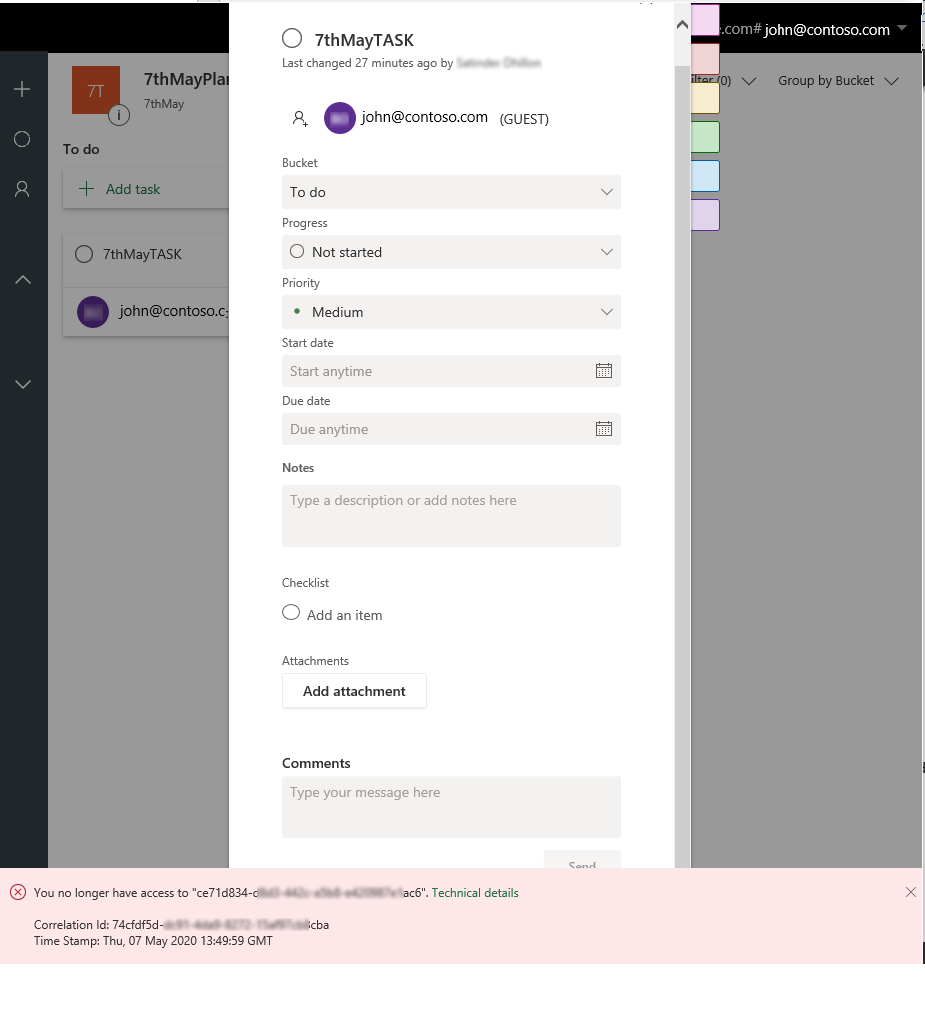
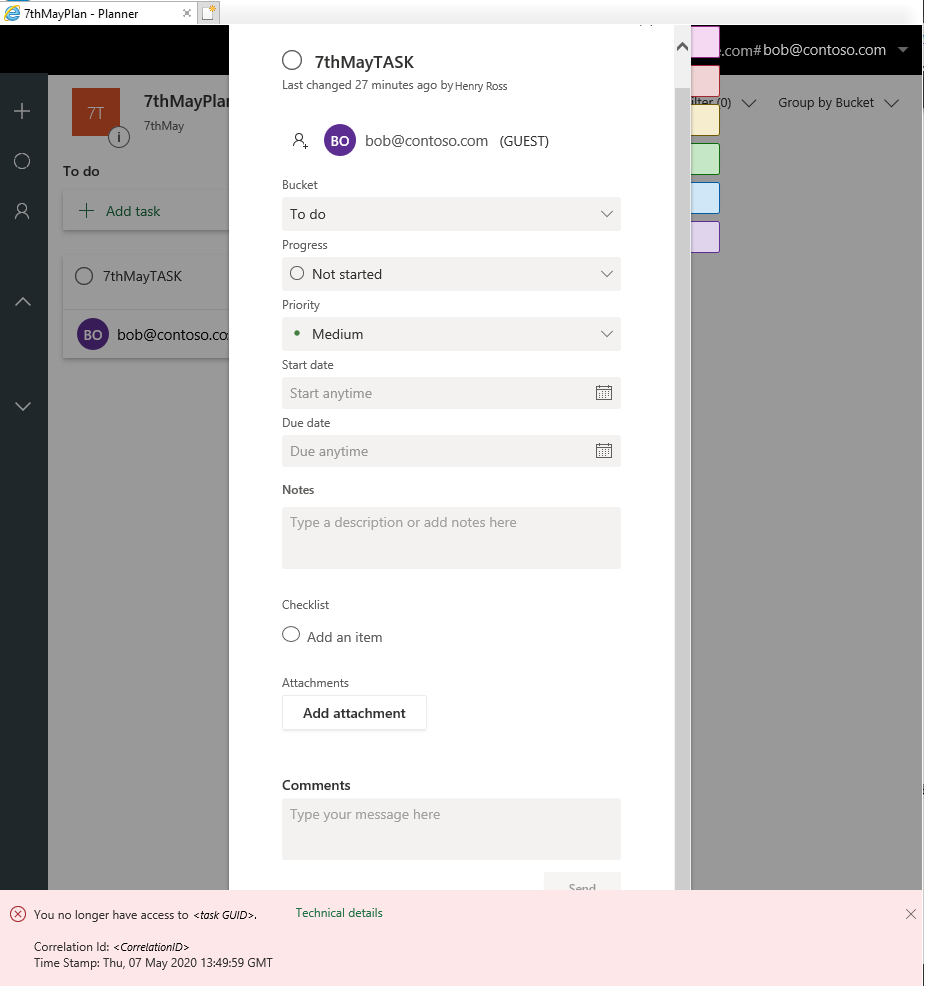
update content and screenshot

diff --git a/Office/Client/planner/guests-cannot-comment-assigned-tasks.md b/Office/Client/planner/guests-cannot-comment-assigned-tasks.md
@@ -10,28 +10,25 @@ ms.prod: office-perpetual-itpro
 localization_priority: Normal
 ms.custom: 
   - CSSTroubleshoot
-  - CI 124798
 ms.reviewer: arvaradh, sadhil
-appliesto: 
-- Office 365 Planner
+appliesto: Office 365 Planner
 search.appverid: MET150
 ---
 # Guests can't add comments to assigned Planner tasks
 
 ## Symptoms
 
-When [guests are assigned tasks](https://support.microsoft.com/office/guest-access-in-microsoft-planner-cc5d7f96-dced-4da4-ab62-08c72d9759c6) in Microsoft Planner, they see the following error message if they try to add a comment to the tasks:
+When [users with guest access are assigned tasks](https://support.microsoft.com/office/guest-access-in-microsoft-planner-cc5d7f96-dced-4da4-ab62-08c72d9759c6) in Microsoft Planner, they see the following error message if they try to add a comment to the tasks:
 
 > You no longer have access to <*task GUID*>.
 
-> [!NOTE]
-> In this message, <*task GUID*> represents the GUID of the actual task GUID.
+**Note** In this message, <*task GUID*> represents the GUID of the actual task GUID.
 
 ![Screenshot of the no access error](./media/guests-cannot-comment-assigned-tasks/task-error.png)
 
 ## Cause
 
-When a task is assigned to a guest in Planner, an Exchange Online recipient is created by using the guest's SMTP address. The error occurs if this SMTP address is already assigned to another Exchange Online recipient in the O365 tenant. In most such cases, the recipient is a mail contact.
+When a task in Planner is assigned to a user with guest access, an Exchange Online recipient is created by using the guest's SMTP address. The error occurs if this SMTP address is already assigned to another Exchange Online recipient in the O365 tenant. In most such cases, the recipient is a mail contact.
 
 ## Resolution
 
